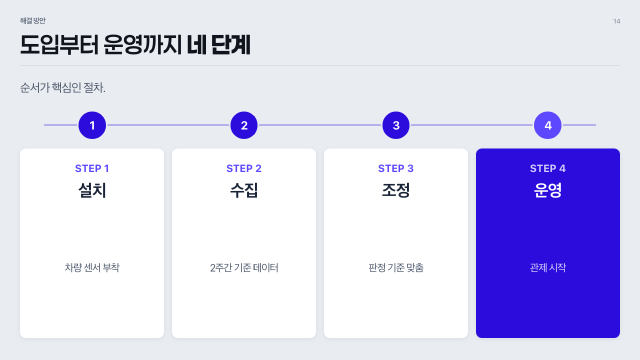
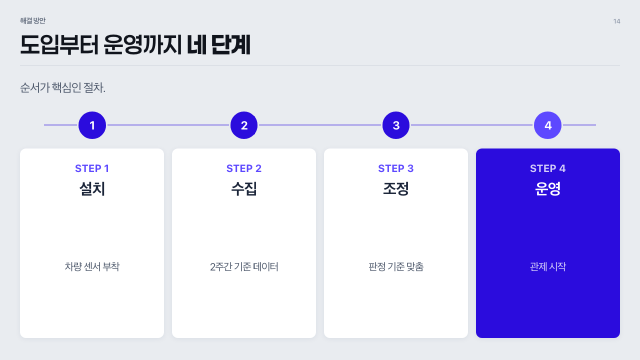
카드 알약 제목 글자 26 → 24px

diff --git a/docs/templates/deck.html b/docs/templates/deck.html
@@ -26,7 +26,7 @@ deck-stage:not(:defined){visibility:hidden;}
 /* --k: per-slide body scale from fit_slides.mjs. Header/title/lead are fixed. */
 .slide{--k:1;
   --fs-body:calc(18px * var(--k));--fs-small:calc(16px * var(--k));
-  --fs-card:calc(26px * var(--k));--fs-stat:calc(34px * var(--k));
+  --fs-card:calc(24px * var(--k));--fs-stat:calc(34px * var(--k));
   --fs-table:calc(24px * var(--k));--fs-tableh:calc(24px * var(--k));
   --gap:calc(12px * var(--k));
 }
@@ -338,7 +338,7 @@ table.rt{width:100%;border-collapse:collapse;font-size:calc(var(--fs-table) * va
     <div class="body" style="--body-top:220px;--safe-bottom:44px"><div class="blk" style="flex:1 1 0"><div class="inner"><div class="imgblk"><div class="txt"><div class="card tint"><div class="cap">위험도&nbsp;산출</div><div class="bd"><div class="fill"><ul class="rl" style="--rl-gap: 0.40em;" data-gap-id="g14"><li>구간별 상태를 점수로</li><li>외기 온도 가중치&nbsp;반영</li><li>판정 근거를 문장으로</li></ul></div></div></div></div><div class="pic"><div class="fr"><div class="ph ib" style="--arw:16;--arh:9">[ 위험도 산출 흐름 ]</div></div></div></div></div></div><div class="blk" style="flex:0 0 auto"><div class="inner"><div class="banner"><div class="lead">적용 산업</div><div class="msg"><ul class="rl" style="--rl-gap: 0.40em;" data-gap-id="g15"><li>식품 냉장 운송 · 의약품 콜드체인</li></ul></div></div></div></div></div>
     
   </section>
-<section class="slide" data-label="2-5 기술 난제와 **대응 방안**" id="s13" data-fit="1" style="--k: 1.0658203124999999;" style="--k:1.06">
+<section class="slide" data-label="2-5 기술 난제와 **대응 방안**" id="s13" data-fit="1" style="--k: 1.1044921875;" style="--k:1.1">
     <div class="top"><div class="eyebrow"><span>해결 방안</span><span class="pgno">13</span></div><div class="stitle">기술 난제와 <b>대응&nbsp;방안</b></div><div class="rule"></div><div class="slead">난제와 해법을 맞대고 근거를 표로 받친다.</div></div>
     <div class="body" style="--body-top:220px;--safe-bottom:44px"><div class="blk" style="flex:1 1 0"><div class="inner"><div class="cmp"><div class="side from"><div class="cap">난제</div><div class="bd"><div class="sh">짧은 이상&nbsp;구간</div><div class="fill"><ul class="rl" style="--rl-gap: 0.40em;" data-gap-id="g16"><li>문 열림 1~2분</li><li>평균값에&nbsp;묻힘</li></ul></div></div></div><div class="arr">›</div><div class="side to"><div class="cap">해법</div><div class="bd"><div class="sh">구간 단위&nbsp;판정</div><div class="fill"><ul class="rl" style="--rl-gap: 0.40em;" data-gap-id="g17"><li>1분 단위 구간&nbsp;분리</li><li>구간별 누적&nbsp;점수</li></ul></div></div></div></div></div></div><div class="blk" style="flex:1 1 0"><div class="inner"><div class="tbl" style="flex:1;min-height:0;overflow:hidden"><table class="rt">
       <colgroup><col style="width:33.3%"><col style="width:33.3%"><col style="width:33.3%"></colgroup>

diff --git a/docs/design/index.html b/docs/design/index.html
@@ -560,8 +560,8 @@ function derive(primary,secondary){
 
 /* ── state ── */
 var DENSITY={
-  dense:{body:18,small:16,cardTitle:26,stat:34,table:24,tableH:24,gap:12},
-  airy: {body:18,small:16,cardTitle:26,stat:34,table:24,tableH:24,gap:12}
+  dense:{body:18,small:16,cardTitle:24,stat:34,table:24,tableH:24,gap:12},
+  airy: {body:18,small:16,cardTitle:24,stat:34,table:24,tableH:24,gap:12}
 };
 var DEFAULTS={
   density:'dense', k:1,

diff --git a/skills/ppt-maker/app/design-system.html b/skills/ppt-maker/app/design-system.html
@@ -560,8 +560,8 @@ function derive(primary,secondary){
 
 /* ── state ── */
 var DENSITY={
-  dense:{body:18,small:16,cardTitle:26,stat:34,table:24,tableH:24,gap:12},
-  airy: {body:18,small:16,cardTitle:26,stat:34,table:24,tableH:24,gap:12}
+  dense:{body:18,small:16,cardTitle:24,stat:34,table:24,tableH:24,gap:12},
+  airy: {body:18,small:16,cardTitle:24,stat:34,table:24,tableH:24,gap:12}
 };
 var DEFAULTS={
   density:'dense', k:1,

diff --git a/skills/ppt-maker/references/design-system.md b/skills/ppt-maker/references/design-system.md
@@ -45,7 +45,7 @@
 | body2 | Pretendard Light | 18pt | 고정 26.6pt | −0.8pt | 표지 설명줄 |
 
 본문 안쪽 글자는 읽는 방식(dense·airy)에 상관없이 같은 값을 쓴다.
-본문 18px, 작은 글 16px, 카드 제목 26px, 큰 수치 34px, 표 24px, 칸 사이 12px 이다.
+본문 18px, 작은 글 16px, 카드 제목 24px, 큰 수치 34px, 표 24px, 칸 사이 12px 이다.
 장표마다 넘치지 않게 `fit_slides` 가 배율을 따로 매기므로, 두 방식의 차이는 배율 상한에만 남는다.
 
 Paperlogy·Pretendard 는 굵기마다 패밀리 이름이 따로 있다(`Paperlogy 7 Bold`, `Pretendard Light`).
